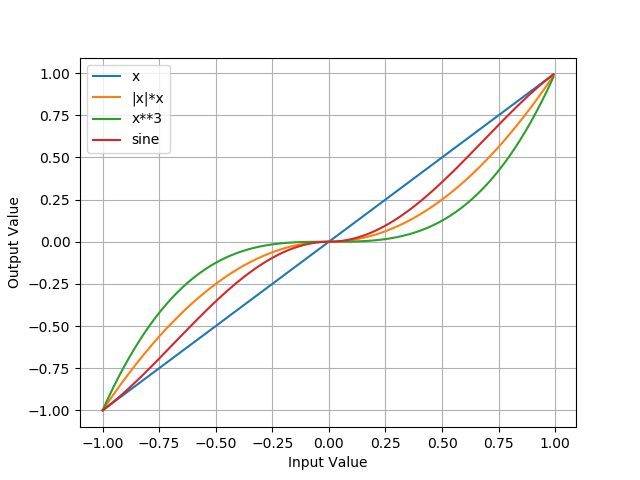
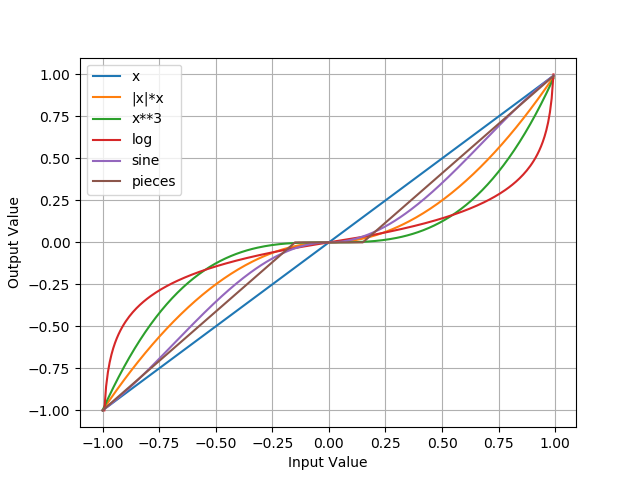
Cleanup with latest python packages

diff --git a/joystickPlots.py b/joystickPlots.py
@@ -16,27 +16,21 @@ y3 = x ** 3
 y4 = np.sign(x)*(np.log(1-abs(x))) / np.log(1/127)
 y5 = np.abs(x)*np.sin(x*np.pi/2)
 
-pl.figure(1)
-pl.plot(x,y1,x,y2,x,y3,x,y5)
-pl.xlabel('Input Value')
-pl.ylabel('Output Value')
-pl.grid()
-pl.legend(['x', '|x|*x','x**3','sine'],loc="upper left")
-pl.savefig("Figure1.png")
-
-pl.figure(2)
 db = 0.15
 idx = np.where(np.abs(x) < db)
 idx2 = np.where(x >= db)
 idx3 = np.where(x <= -db)
 yy = np.array(y1)
-yy[idx] = 0.0;
+yy[idx] = 0.0
 yy[idx2] = (yy[idx2]-db)/(1.0-db)
 yy[idx3] = (yy[idx3]+db)/(1.0-db)
-pl.plot(x,y1,x,yy)
+
+pl.figure(1)
+pl.plot(x,y1,x,y2,x,y3,x,y4,x,y5,x,yy)
 pl.xlabel('Input Value')
 pl.ylabel('Output Value')
 pl.grid()
-pl.legend(['f(x) = x','f(x) = pieces'],loc="upper left")
-pl.savefig("Figure12.png")
+pl.legend(['x', '|x|*x','x**3','log','sine','pieces'],loc="upper left")
+pl.savefig("Figure1.png")
 
+pl.show()

diff --git a/udpReciever.py b/udpReciever.py
@@ -21,16 +21,15 @@ sock.setsockopt(socket.IPPROTO_IP, socket.IP_MULTICAST_TTL, 255)
 # The address for the multi-cast group is the third param
 status = sock.setsockopt(socket.IPPROTO_IP,
 socket.IP_ADD_MEMBERSHIP,
-socket.inet_aton(MCAST_ADDR) + socket.inet_aton(ANY));
+socket.inet_aton(MCAST_ADDR) + socket.inet_aton(ANY))
 
 sock.setblocking(0)
 ts = time.time()
 while True:
     try:
         data, addr = sock.recvfrom(1024)
-    except socket.error, e:
-        pass
-    else:
-        print "We got data!"
-        print "FROM: ", addr
-        print "DATA: ", data
+        print("We got data!")
+        print("FROM: ", addr)
+        print("DATA: ", data)
+    except socket.error as e:
+        print(e)

diff --git a/UDP_ClientExample.py b/UDP_ClientExample.py
@@ -97,7 +97,7 @@ args = parser.parse_args()
 # the basic concepts are the same.
 #   1. import or include your socket interface
 #   2. instantiate a socket with the family, type, and protocol you need
-#   3. configure any special options
+#   3. configure any special options (setsockopt)
 #   4. send/receive using the steps required for the selected protocol
 
 import socket

diff --git a/pid_motor.py b/pid_motor.py
@@ -33,7 +33,7 @@ import matplotlib.pyplot as plot
 import numpy as np
 import math
 
-tmax = 6.0
+tmax = 3.0
 dt = 0.01
 ts = np.arange(0.0, tmax, dt)
 pvs = np.zeros(len(ts))
@@ -123,6 +123,7 @@ plot.figure(1)
 plot.cla()
 plot.grid()
 plot.plot(ts,sps,ts,pvs)
+plot.show()
     
     
     

diff --git a/drivetrain.py b/drivetrain.py
@@ -181,4 +181,5 @@ if __name__ == '__main__':
     plot.grid()
     plot.plot(ts,x,ts,V,ts,a,ts,slipping,ts,Vm,ts,A/10)
     plot.legend(['x','V','a','slipping','Volts','Amps/10'])
+    plot.show()
 

diff --git a/D20.py b/D20.py
@@ -41,6 +41,7 @@ minDie = np.min(diePair,0)
 pl.figure(4)
 pl.hist(minDie,50)
 pl.grid()
+pl.show()
 
 avg_min = np.average(minDie)
 print("Minimum = ", avg_min)

diff --git a/partial_influence.py b/partial_influence.py
@@ -72,4 +72,4 @@ plot.grid()
 for B in Bs:
     plot.plot(Es,dfde(B,Es))
 
-
+plot.show()
